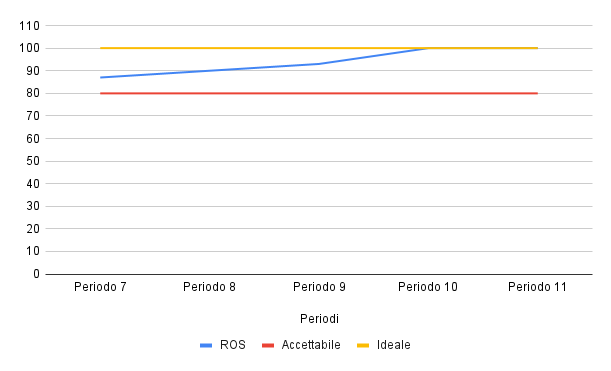
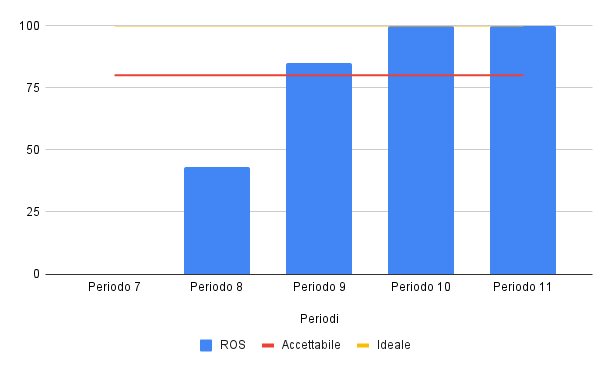
Aggiunta ultime metriche

diff --git a/PB/Documentazione Esterna/Piano_di_Qualifica.tex b/PB/Documentazione Esterna/Piano_di_Qualifica.tex
@@ -904,7 +904,7 @@ per la quale, nell'undicesimo periodo si è registrato un valore pari a 37 (legg
 
 
 \subsection{Qualità di processo - Gestione della qualità}
-\subsubsection{MPC15 - Metriche di qualità soddisfatte}%TODO
+\subsubsection{MPC15 - Metriche di qualità soddisfatte}
 
 \begin{figure}[H]
   \centering
@@ -922,7 +922,10 @@ Un'ultima nota va aggiunta per specificare che il gruppo ha scelto di considerar
 una metrica unica facendo la media dei cinque valori misurati.\\
 
 \noindent
-\textbf{PB}: 
+\textbf{PB}: Anche nel corso della seconda fase del progetto il gruppo ha sempre rispettato il valore accettabile della metrica, anche se il minimo storico (pari a 87,5\%)
+è stato registrato in corrispondenza della ottava iterazione.\\
+Anche in questo caso il gruppo non è riuscito a mantenere un valore costante pari al 100\%, ma ha comunque raggiunto tale valore ideale in corrispondenza degli ultimi
+due sprint del progetto.\\
 
 
 
@@ -935,8 +938,12 @@ una metrica unica facendo la media dei cinque valori misurati.\\
   \caption{Grafico a linee della metrica ROS}
 \end{figure}
 
-\textbf{PB}: Questa metrica riflette la percentuale di requisiti obbligatori soddisfatti durante ogni iterazione. L'analisi del grafico mostra un andamento positivo, partendo dall'84\% raggiunto alla revisione RTB e progredendo costantemente attraverso i periodi (87\%, 90\%, 93\%...) fino a raggiungere il valore ideale del 100\% alla revisione PB.\\
-La costante progressione verso il 100\% dei requisiti obbligatori soddisfatti, culminata nel raggiungimento del valore ideale, è un segnale estremamente positivo. Dimostra una solida comprensione delle esigenze del progetto e un'efficace esecuzione da parte del team nel tradurre tali requisiti in funzionalità complete.
+\textbf{PB}: Questa metrica riflette la percentuale di requisiti obbligatori soddisfatti durante ogni iterazione. Analizzando il grafico emerge che nel periodo 7 (in cui il
+gruppo aveva iniziato la progettazione ma non la codifica) il valore della metrica non è stato considerato. Dal periodo successivo sono iniziate le misurazioni, che 
+hanno mostrato un valore inizialmente basso (circa 40\%) in corrispondenza della ottava iterazione (poiché il codice era ancora incompleto), e un andamento crescente, 
+con valori positivi nelle successive tre iterazioni.\\
+La costante progressione verso il 100\% dei requisiti obbligatori soddisfatti, culminata nel raggiungimento del valore ideale, è un segnale estremamente positivo. 
+Dimostra una solida comprensione delle esigenze del progetto e un'efficace esecuzione da parte del team nel tradurre tali requisiti in funzionalità complete.
 
 
 \subsection{Qualità di processo - Verifica}
@@ -1063,13 +1070,13 @@ Di seguito sono riportati i dettagli relativi a ciascuna metrica, con le rispett
     \hline
     \textbf{Metrica} & \textbf{Descrizione} & \textbf{Valore accettazione} & \textbf{Valore attuale}\\
     \hline
-    MPD06 & Tempo medio di risposta & $\leq$ 10 secondi & -- secondi\\
+    MPD06 & Tempo medio di risposta & $\leq$ 10 secondi & 2 secondi\\
     \hline
-    MPD07 & Facilità di utilizzo & $\leq$ 7 click & -- click\\
+    MPD07 & Facilità di utilizzo & $\leq$ 7 click & 5 click\\
     \hline
-    MPD08 & Tempo medio di apprendimento & $\leq$ 5 minuti & -- \\
+    MPD08 & Tempo medio di apprendimento & $\leq$ 5 minuti & 3 \\
     \hline
-    MPD13 & Versioni browser supportati & $\geq$ 80\% & -- \\
+    MPD13 & Versioni browser supportati & $\geq$ 80\% & 100\% \\
     \hline
     \end{tabular}
     \caption{Metriche di qualità non incluse nel cruscotto}
